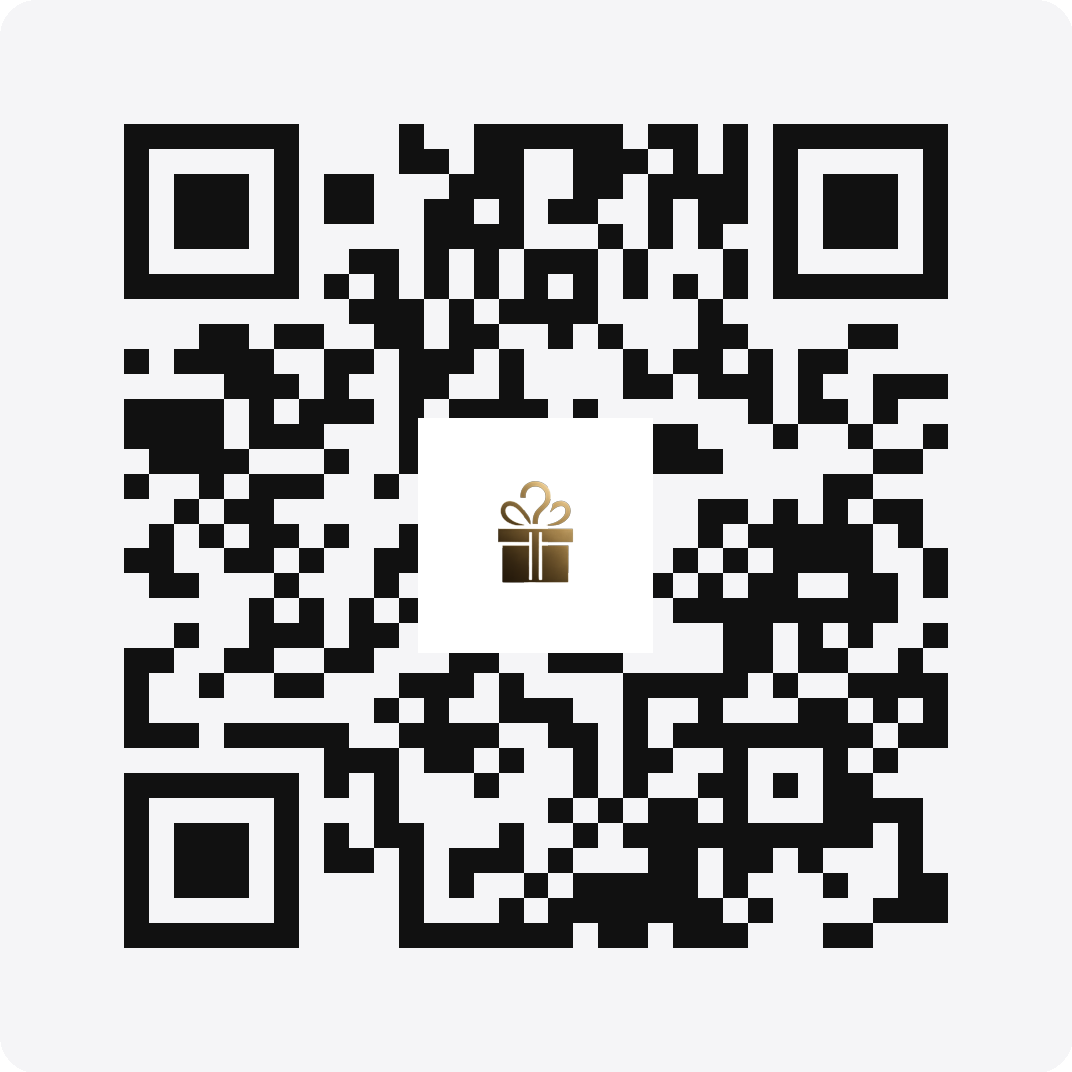
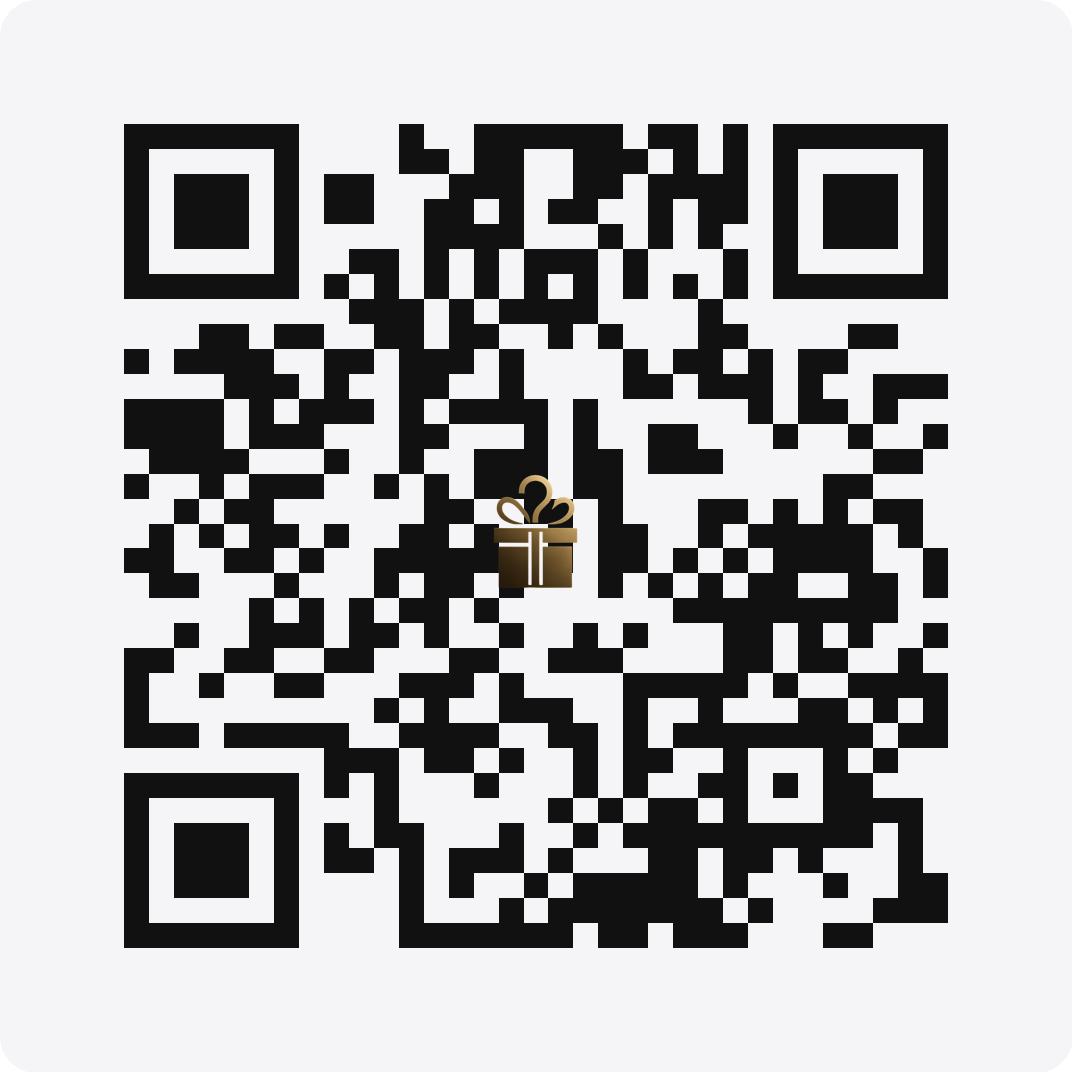
QR maps + /c routes

Changed region(s): [[0.3694, 0.3694, 0.6157, 0.6157]]

diff --git a/js/offer.js b/js/offer.js
@@ -643,7 +643,7 @@ window.tmcShowToast = (function () {
   const form = document.querySelector(".tmc-pp-form");
   const btn = form?.querySelector('button[type="submit"]');
 
-  // minimalistisches Overlay (nur über PayPal-Buttons), falls du es nutzen willst
+  // minimalistisches Overlay (nur über PayPal-Buttons)
   let blocker = null;
   function ensureBlocker() {
     if (blocker || !ppBox) return;

diff --git a/tools/qr_generator/make_qrs_styled.py b/tools/qr_generator/make_qrs_styled.py
@@ -5,10 +5,11 @@
 # Erzeugt QR-Codes im Dark-Style:
 # - Variante A: Standard (dunkel auf hell) + HALO (heller Freisteller) für dunkle Hintergründe
 # - Variante B: ECHT invertiert (hell auf dunkel) – mit Hinweis: weniger robust
+# - Logo: freigestellt/transparent, mittig (kein Teller)
 #
-# Usage-Beispiele siehe unten.
+# Usage-Beispiele siehe README / Befehlszeilen-Flags unten.
 
-import os, math, json
+import os, json
 from PIL import Image, ImageDraw, ImageOps
 import qrcode
 from qrcode.constants import ERROR_CORRECT_H
@@ -27,10 +28,9 @@ DEFAULTS = {
     "halo_px": 0,              # 0 = aus | 12..24 sehr gut | 0 = echte Invertierung möglich
     "halo_color": "#f5f5f7",
     "halo_radius": 36,         # Rundung des Halo-Rechtecks
-    # Logo
-    "logo_path": None,         # z.B. "../../image/logo/themysterycode1.png"
+    # Logo (freigestellt)
+    "logo_path": None,         # z.B. "assets/tmc_logo.png" (PNG mit Transparenz empfohlen)
     "logo_scale": 0.22,        # Anteil an der QR-Kantenlänge
-    "logo_pad": 12,            # weicher Rand ums Logo
 }
 
 def make_qr(url, cfg):
@@ -47,7 +47,7 @@ def make_qr(url, cfg):
     # auf gewünschte Größe skalieren
     img = img.resize((cfg["size_px"], cfg["size_px"]), Image.NEAREST)
 
-    # HALO (Variante A): heller Freisteller hinter den QR kleben
+    # HALO (Variante A): heller Freisteller hinter den QR kleben (für dunkle Umgebungen)
     if cfg["halo_px"] > 0:
         pad = cfg["halo_px"]
         W = cfg["size_px"] + pad * 2
@@ -55,27 +55,24 @@ def make_qr(url, cfg):
         canvas = Image.new("RGBA", (W, H), (0, 0, 0, 0))
         # abgerundetes helles Rechteck
         rr = cfg["halo_radius"]
-        halo = Image.new("RGBA", (W, H), (0,0,0,0))
+        halo = Image.new("RGBA", (W, H), (0, 0, 0, 0))
         d = ImageDraw.Draw(halo)
-        d.rounded_rectangle([0,0,W,H], radius=rr, fill=cfg["halo_color"])
-        canvas.alpha_composite(halo, (0,0))
+        d.rounded_rectangle([0, 0, W, H], radius=rr, fill=cfg["halo_color"])
+        canvas.alpha_composite(halo, (0, 0))
         # QR drauf
-        canvas.alpha_composite(img, (pad,pad))
+        canvas.alpha_composite(img, (pad, pad))
         img = canvas
 
-    # Logo einbetten (mit weißem Puffer für Lesbarkeit)
+    # Logo freigestellt (kein Teller): transparentes PNG empfohlen
     if cfg["logo_path"] and os.path.exists(cfg["logo_path"]):
         logo = Image.open(cfg["logo_path"]).convert("RGBA")
-        # Quadrat-Hilfsebene für Logo (falls Datei nicht quadratisch)
         L = int(min(img.size) * cfg["logo_scale"])
-        logo = ImageOps.contain(logo, (L - cfg["logo_pad"]*2, L - cfg["logo_pad"]*2))
-        plate = Image.new("RGBA", (L, L), (255, 255, 255, 255))  # weißer Teller
-        # Logo mittig auf den Teller
-        plate.paste(logo, ((L - logo.size[0]) // 2, (L - logo.size[1]) // 2), logo)
-        # Teller mittig auf QR
-        x = (img.size[0] - L) // 2
-        y = (img.size[1] - L) // 2
-        img.alpha_composite(plate, (x, y))
+        # Logo proportional einpassen
+        logo = ImageOps.contain(logo, (L, L))
+        # mittig auf QR setzen
+        x = (img.size[0] - logo.size[0]) // 2
+        y = (img.size[1] - logo.size[1]) // 2
+        img.alpha_composite(logo, (x, y))
 
     return img
 
@@ -85,7 +82,7 @@ def save_png(img, path):
 
 def main():
     import argparse
-    p = argparse.ArgumentParser(description="Erzeuge Dark-Style QR-Codes (Variante A: Halo | Variante B: invertiert)")
+    p = argparse.ArgumentParser(description="Erzeuge Dark-Style QR-Codes (Halo-Option, invertierbar, Logo freigestellt)")
     p.add_argument("--map", help="JSON-Datei: [{'name':'Mannheim-01','url':'https://themysterycode.de/c/101'}, ...]")
     p.add_argument("--out", default=DEFAULTS["out_dir"])
     p.add_argument("--fg", default=DEFAULTS["fg"])
